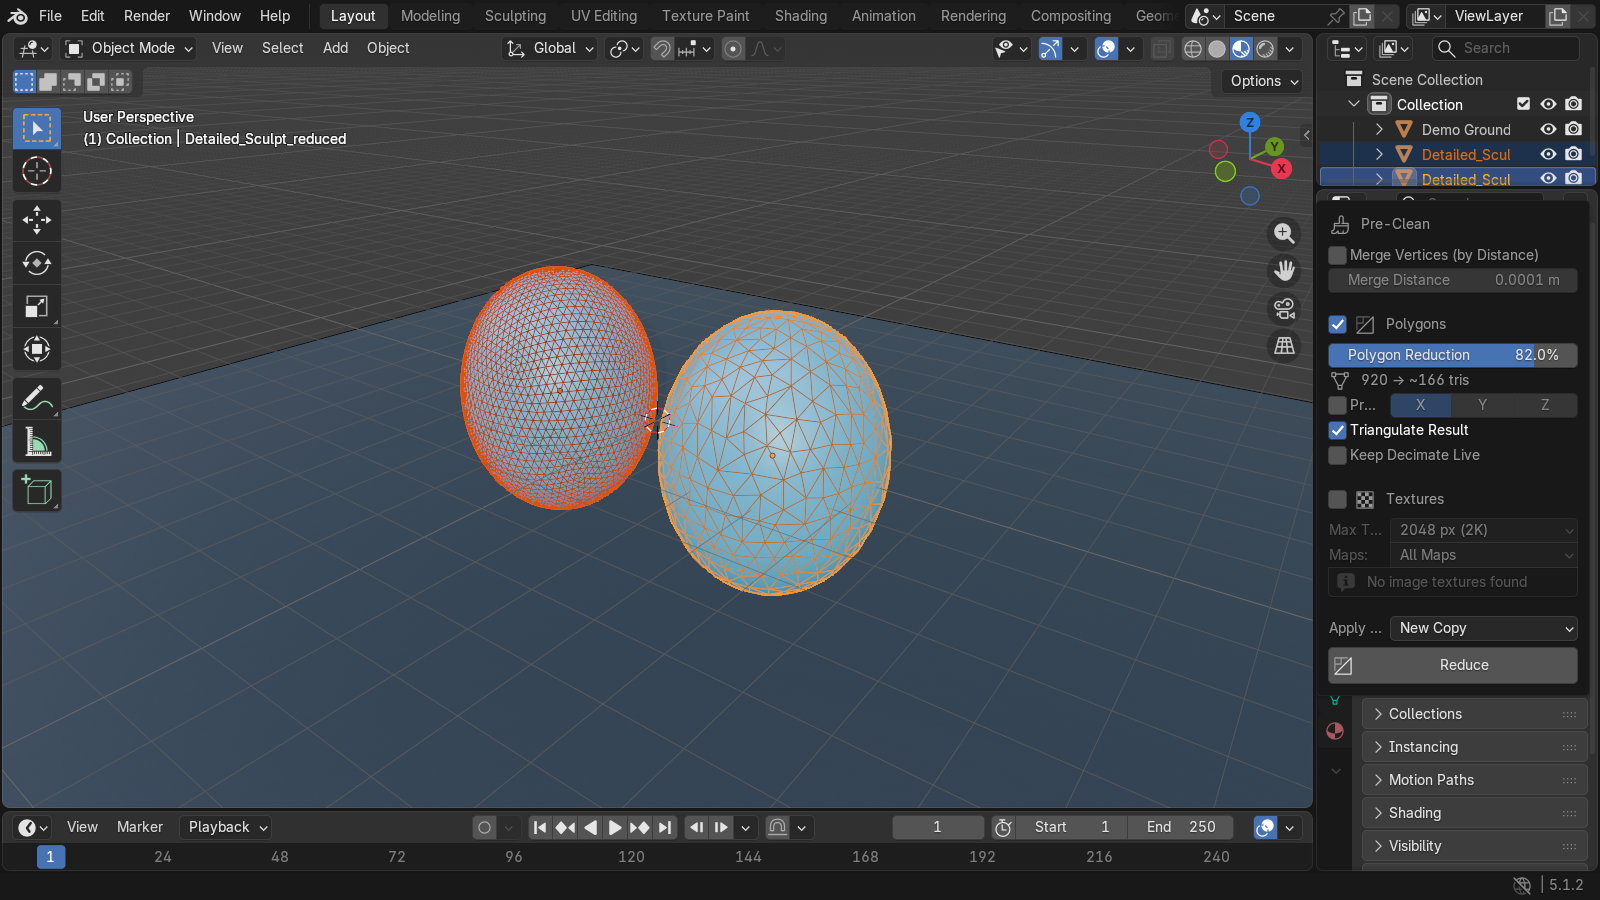
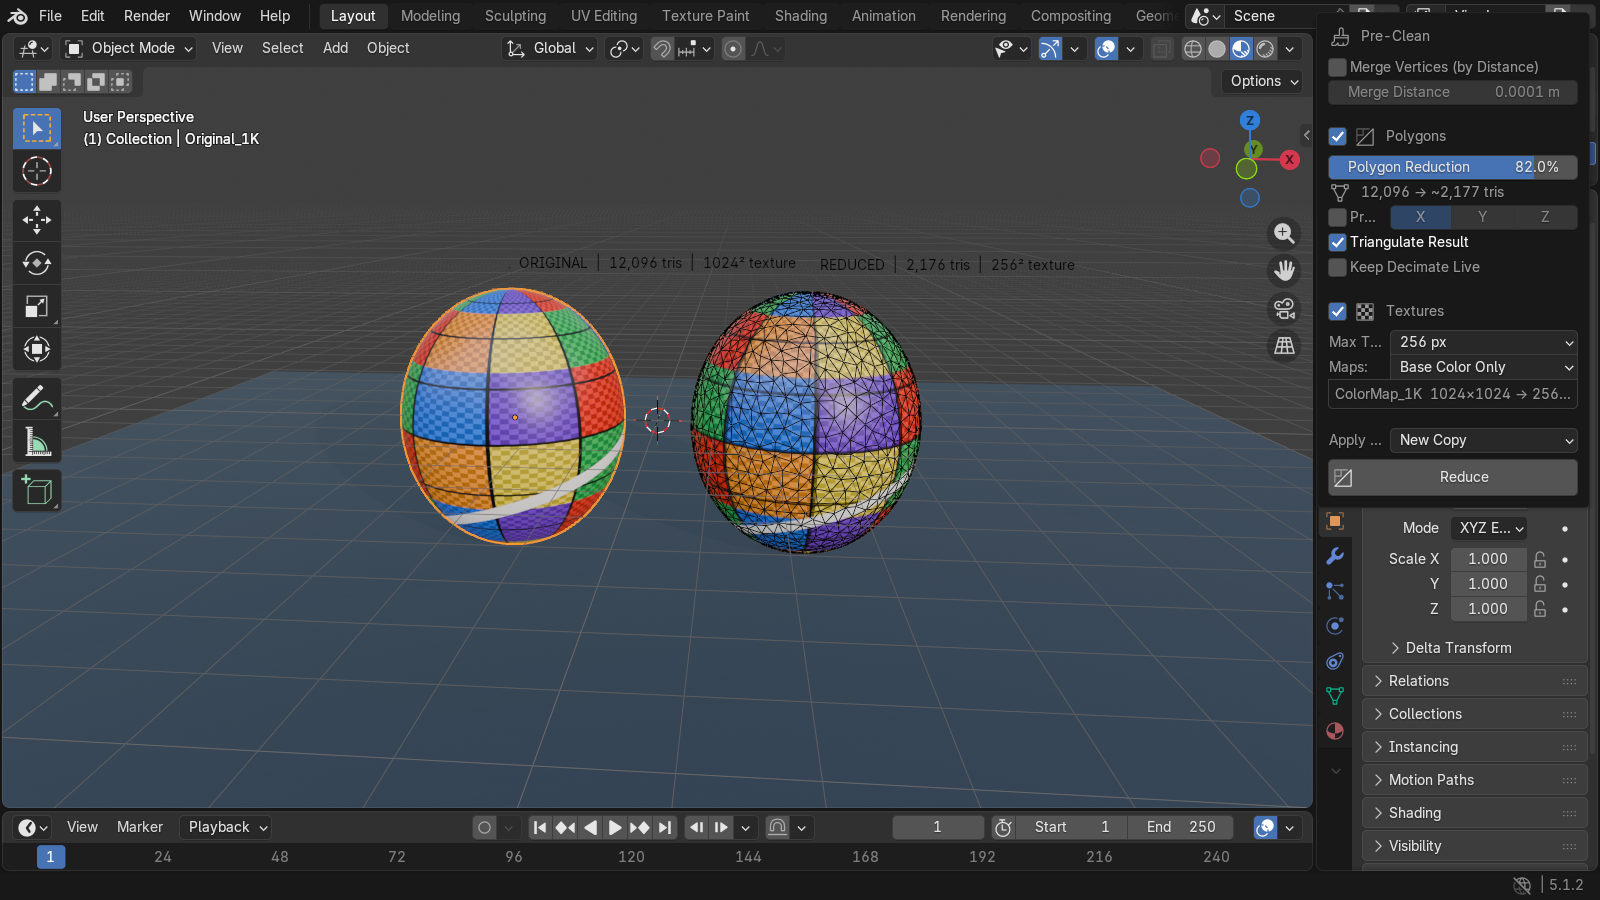
Improve textured reduction screenshot

Changed region(s): [[0.0, 0.0, 1.0, 0.7778], [0.125, 0.1244, 0.2188, 0.1867]]

diff --git a/README.md b/README.md
@@ -14,9 +14,9 @@ just at lower resolution.
 
 ## Actual add-on in Blender
 
-![Blender 5.1 comparing a dense original mesh with the reduced copy while The Reducer sidebar shows an 82 percent polygon reduction and its projected triangle count](https://raw.githubusercontent.com/Omegadarling/the-reducer/main/docs/images/blender-screenshot.png)
+![Blender 5.1 comparing a 12,096-triangle original with a 1024-square color map against a 2,176-triangle reduced copy with its own 256-square map; the same asymmetric color grid remains aligned while The Reducer panel shows both reductions](https://raw.githubusercontent.com/Omegadarling/the-reducer/main/docs/images/blender-screenshot.png?v=2)
 
-*Actual Blender capture after the add-on created a separate reduced copy: the dense original stays on the left, while the 82%-reduced result and live triangle estimate are visible on the right.*
+*Actual Blender capture after a **New Copy** reduction: the color grid and white diagonal stay mapped to the same places, the right-hand wire overlay reveals the simpler topology, and the panel shows `12,096 → 2,177` triangles plus `1024×1024 → 256×256` for the new texture.*
 
 It's a **separate extension** from *Painted 3MF Export* (its own zip / entry in
 Preferences); the two don't depend on each other.
